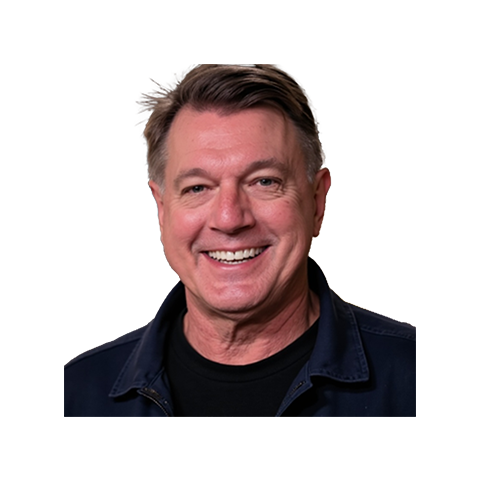
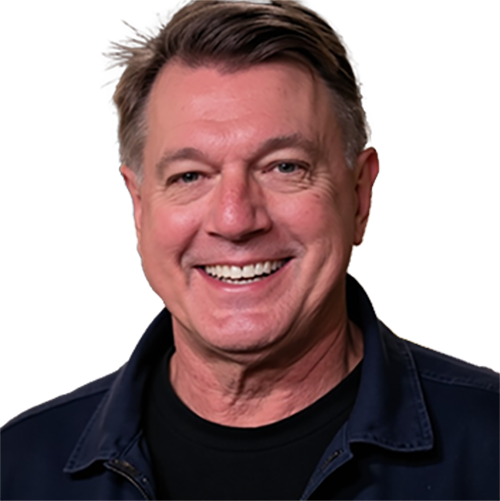
Showcase the Sparq Inc. Board of Directors on a new visually appealing slide
Implements slide 21, "Sparq Inc. Board of Directors," with a grid layout, headshots, and custom styling in `index.html` and `css/slide21.css`.

Replit-Commit-Author: Agent
Replit-Commit-Session-Id: e14510c3-1b5a-4932-a361-1044e3d7ae3e
Replit-Commit-Screenshot-Url: https://storage.googleapis.com/screenshot-production-us-central1/7bb8e189-da2f-4937-b545-fc9acaa6b016/4ab5298e-28f3-4447-b5f9-380aae8beff8.jpg

diff --git a/index.html b/index.html
@@ -31,6 +31,7 @@
     <link rel="stylesheet" href="css/slide18.css">
     <link rel="stylesheet" href="css/slide19.css">
     <link rel="stylesheet" href="css/slide20.css">
+    <link rel="stylesheet" href="css/slide21.css">
     <link rel="stylesheet" href="css/global-bullets.css">
     <link rel="stylesheet" href="css/footer-fixes.css">
     <link rel="stylesheet" href="css/bullet-overrides.css">
@@ -2063,52 +2064,86 @@
             <section class="slide" id="slide-21">
                 <div class="content board-directors">
                     <div class="header">
-                        <h1 class="title">Sparq Inc. Board of Directors</h1>
+                        <h1 class="title font-adam">Sparq Inc. Board of Directors</h1>
                     </div>
-                    <div class="board-content">
-                        <div class="board-grid">
-                            <div class="board-member">
-                                <div class="member-image">
-                                    <!-- Member image placeholder -->
-                                </div>
-                                <h3>Jan Horsfall</h3>
-                                <p>Founder & CEO</p>
+                    
+                    <div class="board-grid">
+                        <!-- Jan Horsfall -->
+                        <div class="board-member">
+                            <div class="headshot-container">
+                                <img src="attached_assets/JanH_(Headshot).png" alt="Jan Horsfall" class="member-headshot">
                             </div>
-                            <div class="board-member">
-                                <div class="member-image">
-                                    <!-- Member image placeholder -->
-                                </div>
-                                <h3>Fumbi Chima</h3>
-                                <p>Board Member</p>
+                            <h2 class="member-name">Jan Horsfall</h2>
+                            <p class="member-title">Founder & CEO</p>
+                        </div>
+                        
+                        <!-- Tony Dye -->
+                        <div class="board-member">
+                            <div class="headshot-container">
+                                <img src="attached_assets/TonyD_Bengals(Deep_Relationships_Slide).png" alt="Tony Dye" class="member-headshot">
                             </div>
-                            <div class="board-member">
-                                <div class="member-image">
-                                    <!-- Member image placeholder -->
-                                </div>
-                                <h3>Josef Siebert</h3>
-                                <p>Board Member</p>
+                            <h2 class="member-name">Tony Dye</h2>
+                            <p class="member-title">President, Product</p>
+                        </div>
+                        
+                        <!-- Sean Embree -->
+                        <div class="board-member">
+                            <div class="headshot-container">
+                                <img src="attached_assets/SeanE(Deep_Relationships_Slide).png" alt="Sean Embree" class="member-headshot">
                             </div>
-                            <div class="board-member">
-                                <div class="member-image">
-                                    <!-- Member image placeholder -->
-                                </div>
-                                <h3>Adam Mitchell</h3>
-                                <p>Board Member</p>
+                            <h2 class="member-name">Sean Embree</h2>
+                            <p class="member-title">VP Athletics</p>
+                        </div>
+                        
+                        <!-- Fumbi Chima -->
+                        <div class="board-member fumbi-highlight">
+                            <div class="headshot-container">
+                                <img src="attached_assets/FumbiC_(Headshot).png" alt="Fumbi Chima" class="member-headshot">
                             </div>
-                            <div class="board-member">
-                                <div class="member-image">
-                                    <!-- Member image placeholder -->
-                                </div>
-                                <h3>George Dawson</h3>
-                                <p>Board Member</p>
+                            <h2 class="member-name">Fumbi Chima</h2>
+                            <p class="member-title">Independent Director</p>
+                            <div class="member-details">
+                                <ul class="previous-roles">
+                                    <li>
+                                        <img src="attached_assets/Bulletpoint_Logo_Skull(Red) copy.png" alt="Bullet">
+                                        Boeing Credit Union - CIO
+                                    </li>
+                                    <li>
+                                        <img src="attached_assets/Bulletpoint_Logo_Skull(Red) copy.png" alt="Bullet">
+                                        Adidas - Executive VP, CIO
+                                    </li>
+                                    <li>
+                                        <img src="attached_assets/Bulletpoint_Logo_Skull(Red) copy.png" alt="Bullet">
+                                        Fox Network Group - CIO
+                                    </li>
+                                    <li>
+                                        <img src="attached_assets/Bulletpoint_Logo_Skull(Red) copy.png" alt="Bullet">
+                                        Burberry - Global CIO
+                                    </li>
+                                    <li>
+                                        <img src="attached_assets/Bulletpoint_Logo_Skull(Red) copy.png" alt="Bullet">
+                                        Walmart Asia - CIO
+                                    </li>
+                                </ul>
                             </div>
-                            <div class="board-member">
-                                <div class="member-image">
-                                    <!-- Member image placeholder -->
-                                </div>
-                                <h3>Amy Keller</h3>
-                                <p>Board Member</p>
+                        </div>
+                        
+                        <!-- Mark Rogers -->
+                        <div class="board-member">
+                            <div class="headshot-container">
+                                <img src="attached_assets/RogersM.png" alt="Mark Rogers" class="member-headshot">
                             </div>
+                            <h2 class="member-name">Mark Rogers</h2>
+                            <p class="member-title">Financial Steward</p>
+                        </div>
+                        
+                        <!-- TBD Independent Director -->
+                        <div class="board-member">
+                            <div class="headshot-placeholder">
+                                <img src="attached_assets/Logo_Skull(Red).png" alt="TBD Placeholder" class="placeholder-icon">
+                            </div>
+                            <h2 class="member-name">TBD</h2>
+                            <p class="member-title">Independent Director</p>
                         </div>
                     </div>
                     

diff --git a/css/slide21.css b/css/slide21.css
@@ -1,0 +1,196 @@
+/* Slide 21: Sparq Inc. Board of Directors - Styling */
+
+:root {
+    --sparq-red: #FF0026;
+    --sparq-teal: #00A19C;
+    --sparq-carbon: #2B2842;
+    --sparq-steel: #1E1E24;
+    --sparq-white: #FFFFFF;
+    --sparq-gold: #FFD700;
+}
+
+#slide-21 .content.board-directors {
+    background-color: var(--sparq-carbon);
+    color: var(--sparq-white);
+    position: relative;
+    overflow: hidden;
+}
+
+#slide-21 .header {
+    position: relative;
+    z-index: 1;
+    margin-bottom: var(--spacing-md);
+    text-align: center;
+}
+
+#slide-21 .title {
+    font-family: 'ADAM-CG-PRO', 'Arial Black', sans-serif;
+    font-size: var(--title-size);
+    font-weight: bold;
+    color: var(--sparq-teal);
+    margin-bottom: 0.1em;
+    text-transform: uppercase;
+    text-shadow: 0 2px 4px rgba(0, 0, 0, 0.5);
+}
+
+#slide-21 .board-grid {
+    display: grid;
+    grid-template-columns: repeat(3, 1fr);
+    grid-template-rows: repeat(2, 1fr);
+    gap: var(--spacing-md);
+    margin-bottom: var(--spacing-sm);
+    position: relative;
+    z-index: 1;
+}
+
+#slide-21 .board-member {
+    display: flex;
+    flex-direction: column;
+    align-items: center;
+    text-align: center;
+    padding: calc(var(--spacing-md) * 0.8);
+    border-radius: 10px;
+    background-color: rgba(0, 0, 0, 0.15);
+    transition: transform 0.3s ease;
+}
+
+#slide-21 .board-member:hover {
+    transform: translateY(-5px);
+}
+
+#slide-21 .fumbi-highlight {
+    background-color: rgba(0, 161, 156, 0.15);
+    border: 2px solid var(--sparq-red);
+    box-shadow: 0 4px 12px rgba(255, 0, 38, 0.2);
+}
+
+#slide-21 .headshot-container {
+    width: 140px;
+    height: 140px;
+    border-radius: 50%;
+    overflow: hidden;
+    margin-bottom: var(--spacing-sm);
+    border: 3px solid var(--sparq-teal);
+    box-shadow: 0 5px 15px rgba(0, 0, 0, 0.3);
+}
+
+#slide-21 .headshot-placeholder {
+    width: 140px;
+    height: 140px;
+    border-radius: 50%;
+    overflow: hidden;
+    margin-bottom: var(--spacing-sm);
+    border: 3px solid rgba(255, 255, 255, 0.2);
+    background-color: rgba(255, 255, 255, 0.1);
+    display: flex;
+    align-items: center;
+    justify-content: center;
+}
+
+#slide-21 .placeholder-icon {
+    width: 60px;
+    height: 60px;
+    opacity: 0.5;
+}
+
+#slide-21 .member-headshot {
+    width: 100%;
+    height: 100%;
+    object-fit: cover;
+}
+
+#slide-21 .member-name {
+    font-family: 'ADAM-CG-PRO', 'Arial Black', sans-serif;
+    font-size: calc(var(--heading-size) * 1);
+    color: var(--sparq-white);
+    margin: 0 0 0.3em 0;
+    text-transform: uppercase;
+}
+
+#slide-21 .member-title {
+    font-family: 'Inter', sans-serif;
+    font-size: calc(var(--body-size) * 1.1);
+    color: var(--sparq-teal);
+    margin: 0 0 var(--spacing-sm) 0;
+    font-weight: 500;
+}
+
+#slide-21 .member-details {
+    font-family: 'Inter', sans-serif;
+    font-size: var(--body-size);
+    color: var(--sparq-white);
+    text-align: left;
+    max-width: 90%;
+}
+
+#slide-21 .previous-roles {
+    list-style-type: none;
+    padding-left: 0;
+    margin-top: 0.5em;
+}
+
+#slide-21 .previous-roles li {
+    padding-left: 28px;
+    position: relative;
+    margin-bottom: 5px;
+    font-size: calc(var(--body-size) * 0.9);
+    display: flex;
+    align-items: flex-start;
+}
+
+#slide-21 .previous-roles li img {
+    width: 16px;
+    height: 16px;
+    position: absolute;
+    left: 0;
+    top: 3px;
+}
+
+/* Responsive adjustments */
+@media (max-width: 1200px) {
+    #slide-21 .board-grid {
+        grid-template-columns: repeat(2, 1fr);
+        grid-template-rows: repeat(3, 1fr);
+    }
+}
+
+@media (max-width: 768px) {
+    #slide-21 .board-grid {
+        grid-template-columns: 1fr;
+        grid-template-rows: repeat(6, 1fr);
+    }
+}
+
+@media (max-height: 700px) {
+    #slide-21 .header {
+        margin-bottom: calc(var(--spacing-md) * 0.7);
+    }
+    
+    #slide-21 .title {
+        font-size: calc(var(--title-size) * 0.9);
+    }
+    
+    #slide-21 .board-grid {
+        gap: calc(var(--spacing-md) * 0.7);
+    }
+    
+    #slide-21 .board-member {
+        padding: calc(var(--spacing-md) * 0.6);
+    }
+    
+    #slide-21 .headshot-container,
+    #slide-21 .headshot-placeholder {
+        width: 120px;
+        height: 120px;
+        margin-bottom: calc(var(--spacing-sm) * 0.7);
+    }
+    
+    #slide-21 .member-name {
+        font-size: calc(var(--heading-size) * 0.9);
+    }
+    
+    #slide-21 .member-title {
+        font-size: var(--body-size);
+        margin-bottom: calc(var(--spacing-sm) * 0.7);
+    }
+}
